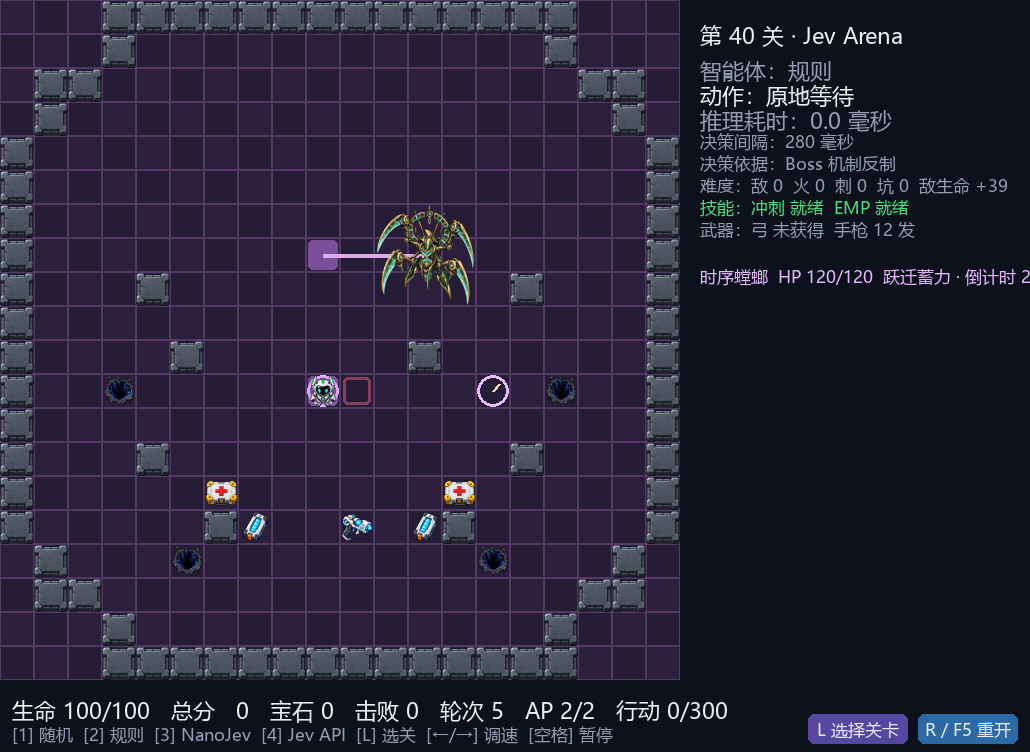
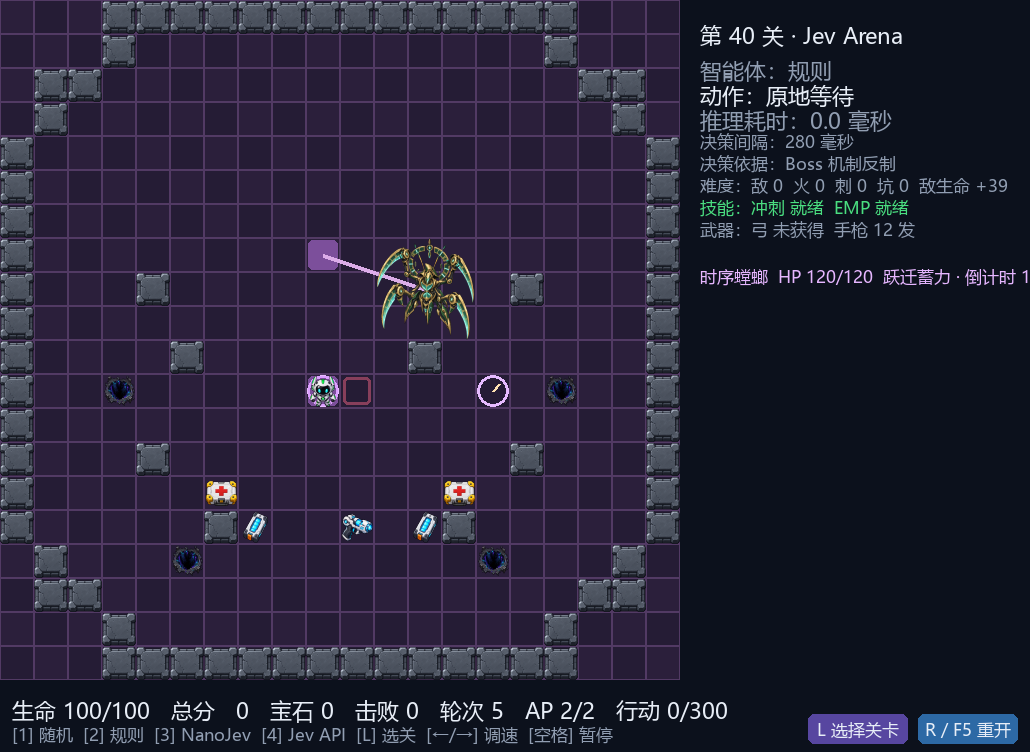
Make chrono mantis flank react to player position

Changed region(s): [[0.3107, 0.2753, 0.466, 0.4588], [0.9942, 0.3364, 1.0, 0.3976]]

diff --git a/arena/env.py b/arena/env.py
@@ -334,6 +334,21 @@ class ArenaEnv:
             remaining.remove(nearest)
         return tuple(nodes)
 
+    def chrono_landing_x(self) -> int:
+        boss = self.boss
+        if not isinstance(boss, ChronoMantis):
+            raise ValueError("chrono landing requires ChronoMantis")
+        if boss.leap_target:
+            return boss.leap_target[0]
+        if boss.phase == "slash":
+            return 9 if boss.position[0] >= 12 else 14
+        player_x = self.player.position[0]
+        if player_x <= 7:
+            return 9
+        if player_x >= 13:
+            return 14
+        return 9 if boss.position[0] >= 10 else 14
+
     def _ensure_pickups_reachable(self) -> None:
         reachable = self._reachable_cells()
         pickup_sets = (self.bow_pickups, self.pistol_pickups, self.arrow_bundles, self.energy_cells)
@@ -784,12 +799,20 @@ class ArenaEnv:
             return 0.0
         if boss.phase == "flank":
             previous = boss.position
-            x = 12 if boss.position[0] >= 12 else boss.position[0] + 2
-            boss.position = (x, 7)
+            launch_x = 12 if self.chrono_landing_x() == 9 else 11
+            delta = max(-2, min(2, launch_x - boss.position[0]))
+            x = boss.position[0] + delta
+            y = (8 if boss.position[1] == 7 else 7) if not delta else boss.position[1]
+            if (x, y) == self.player.position:
+                y = 8 if y == 7 else 7
+            boss.position = (x, y)
             boss.moves += 1
+            if x != launch_x:
+                events.append(f"boss_move:{previous[0]}:{previous[1]}:{x}:{y}")
+                return 0.0
             boss.slash_target = self.player.position
             boss.phase = "slash"
-            events.extend((f"boss_move:{previous[0]}:{previous[1]}:{x}:7",
+            events.extend((f"boss_move:{previous[0]}:{previous[1]}:{x}:{y}",
                            f"chrono_slash_aim:{boss.slash_target[0]}:{boss.slash_target[1]}"))
             return 0.0
         if boss.phase == "slash":
@@ -798,13 +821,17 @@ class ArenaEnv:
             events.append(f"chrono_slash:{target[0]}:{target[1]}")
             if self._distance(self.player.position, target) <= 1:
                 reward += self._damage_entity(self.player, boss.slash_damage, events, "chrono_slash")
-            boss.leap_target = (9 if boss.position[0] >= 12 else 14, 7)
+            boss.leap_target = (self.chrono_landing_x(), 7)
             boss.leap_countdown = 2
             boss.phase = "leap"
             events.append(f"chrono_leap_aim:{boss.leap_target[0]}:{boss.leap_target[1]}")
             return reward
         if boss.leap_countdown > 1:
             boss.leap_countdown -= 1
+            previous = boss.position
+            boss.position = (boss.position[0], 8)
+            if previous != boss.position:
+                events.append(f"boss_move:{previous[0]}:{previous[1]}:{boss.position[0]}:8")
             events.append(f"chrono_leap_charge:{boss.leap_target[0]}:{boss.leap_target[1]}")
             return 0.0
         if self.player.position == boss.leap_target:

diff --git a/tests/test_boss.py b/tests/test_boss.py
@@ -218,6 +218,31 @@ class StormBossTests(unittest.TestCase):
 
 
 class ChronoBossTests(unittest.TestCase):
+    def test_flank_changes_side_with_player_without_teleporting(self):
+        right = ArenaEnv(campaign_config(40))
+        right.round = 3
+        right.player.position = (14, 11)
+        right.step(Action.WAIT)
+        right.step(Action.WAIT)
+        self.assertEqual(right.boss.position, (11, 7))
+        self.assertEqual(right.boss.phase, "slash")
+        right.step(Action.WAIT)
+        right.step(Action.WAIT)
+        self.assertEqual(right.boss.leap_target, (14, 7))
+
+        left = ArenaEnv(campaign_config(40))
+        left.round = 3
+        left.player.position = (6, 11)
+        left.boss.position = (9, 7)
+        left.step(Action.WAIT)
+        left.step(Action.WAIT)
+        self.assertEqual(left.boss.position, (11, 7))
+        self.assertEqual(left.boss.phase, "flank")
+        left.step(Action.WAIT)
+        left.step(Action.WAIT)
+        self.assertEqual(left.boss.position, (12, 7))
+        self.assertEqual(left.boss.phase, "slash")
+
     def test_room_leap_warning_and_anchor_counter(self):
         env = ArenaEnv(campaign_config(40))
         self.assertEqual(env.time_anchors, {(9, 11), (14, 11)})
@@ -238,7 +263,8 @@ class ChronoBossTests(unittest.TestCase):
         self.assertEqual(env._distance(env.boss.position, env.boss.leap_target), 3)
         env.step(Action.DASH_N)
         env.step(Action.WAIT)
-        self.assertEqual(env.boss.position, (12, 7))
+        self.assertEqual(env.boss.position, (12, 8))
+        self.assertEqual(env._distance(env.boss.position, env.boss.leap_target), 4)
         env.step(Action.WAIT)
         leap = env.step(Action.WAIT)
         self.assertIn("chrono_anchor", leap.events)

diff --git a/nanojev_adapter/policy.py b/nanojev_adapter/policy.py
@@ -138,7 +138,7 @@ def select_action(probabilities: dict[str, float], env, mode: str = "hybrid") ->
                     (boss.target is None and boss.attacks % 2 == 0)):
                 return "wait", "boss_tactics"
         else:
-            landing_x = boss.leap_target[0] if boss.leap_target else (9 if boss.position[0] >= 10 else 14)
+            landing_x = env.chrono_landing_x()
             targets = {(landing_x, 11)}
             if env.player.position in targets and "wait" in safest and boss.phase != "slash":
                 return "wait", "boss_tactics"

diff --git a/JEV_ARENA_BOSS_ROADMAP.md b/JEV_ARENA_BOSS_ROADMAP.md
@@ -1,6 +1,6 @@
 # Jev Arena 10～100 关 Boss 规划
 
-> 当前进度（2026-09）：第 10、20、30、40 关已有可玩固定 Boss 房、机制破盾、独立招式预警和默认 NanoJev 混合策略无伤通关验证。第 40 关首版是横切、锁定近斩、预告后跃迁、时间锚破盾；更复杂的追击寻路仍待实现。下文是完整制作目标，不代表第 50～100 关已实现；各 Boss 的更复杂二阶段招式与逐帧动作仍待制作。
+> 当前进度（2026-09）：第 10、20、30、40 关已有可玩固定 Boss 房、机制破盾、独立招式预警和默认 NanoJev 混合策略无伤通关验证。第 40 关已能按玩家横向站位换侧、横切至起跳点、蓄力前压和时间锚破盾；绕掩体的深度追击仍待实现。下文是完整制作目标，不代表第 50～100 关已实现；各 Boss 的更复杂二阶段招式与逐帧动作仍待制作。
 
 > Boss 关出现在第 10、20、30……100 关。Boss 难度来自读招、走位和机制反杀，不靠普通怪堆叠、突然秒杀或无限加血。
 
@@ -113,7 +113,7 @@
 
 ## 第 40 关：时序螳螂
 
-当前可玩首版：Boss 生命 120；在两条上方侧翼间横切最多 2 格，近斩锁定格及邻格伤害 24，旧目标格延迟残影伤害 18；跃迁固定移动 3 格并提前 2 回合公开落点，落点被玩家占据则取消。玩家在对应时间锚上接住跃迁，使残影回放破盾，核心开放 4 回合。房内提供手枪、能量弹匣与血包；规则代理和默认 NanoJev 混合策略均已无伤通关。以下“绕掩体的主动追击”“更多佯攻”“残影多格组合”仍是后续增强，不代表首版已完成。
+当前可玩首版：Boss 生命 120；按玩家横向站位选择侧翼，沿通道每回合横切最多 2 格至起跳点，若距离不足则再走一回合；近斩锁定格及邻格伤害 24，旧目标格延迟残影伤害 18。跃迁落点横向相差 3 格、蓄力时再向前压 1 格，最后一跳曼哈顿距离 4 格；落点提前 2 回合公开，被玩家占据则取消。玩家在对应时间锚上接住跃迁，使残影回放破盾，核心开放 4 回合。房内提供手枪、能量弹匣与血包；规则代理和默认 NanoJev 混合策略均已无伤通关。以下“绕掩体的主动追击”“更多佯攻”“残影多格组合”仍是后续增强，不代表首版已完成。
 
 - 定位为第一只真正的**高速追击 Boss**，不是给原有站桩 Boss 单纯加移速。普通追击每个敌方回合最多移动 2 格，可横切、绕掩体、短暂佯攻；始终沿可通行格走，不能穿墙、穿坑或贴在玩家格上。连续两次选同一侧翼后，下一次必须换侧或进入跃迁预告，避免原地左右抖动。
 - 每三次移动至多发动一次跃迁：先在地图上标出起点、穿越方向和 3～4 格外的落点，给玩家完整 1 个回合（2 AP）反应，下一敌方回合才移动。落点不能是玩家当前格；若落点被阻断，则取消跃迁并收招，不能临时改落点“追踪命中”。跃迁本身不造成伤害。

diff --git a/JEV_ARENA_V2_ROADMAP.md b/JEV_ARENA_V2_ROADMAP.md
@@ -1848,7 +1848,7 @@ NanoJev 很快，但能力有限。
 
 第 20 关熔炉三头机已有首版可玩战斗：火球与熔岩波独立预警、三座冷却阀破盾、比第 10 关更大的锻炉形房间、熔岩边道、弓箭与血包补给；规则代理及默认 NanoJev 混合策略均通过固定场景无伤通关验证。第 30 关风暴合唱环也已接入错位接地柱、导电位、连锁闪电与高压雷爆，默认 NanoJev 混合策略通过本地 checkpoint 无伤通关。第 40 关时序螳螂首版已实现横切、锁定近斩、预告跃迁、时间锚破盾，本地 NanoJev checkpoint 无伤通关；第 50～100 关尚未实装。
 
-第 40 关进一步增强目标：让时序螳螂根据玩家位置绕掩体追击、增加佯攻与残影组合；当前首版仍主要沿两条侧翼移动。具体制作标准见 `JEV_ARENA_BOSS_ROADMAP.md`。
+第 40 关已补按玩家横向站位换侧、分段横切和跃迁蓄力前压；下一步是绕掩体的深度追击、更多佯攻与残影组合。当前仍主要沿两条侧翼移动，具体制作标准见 `JEV_ARENA_BOSS_ROADMAP.md`。
 
 ---
 
